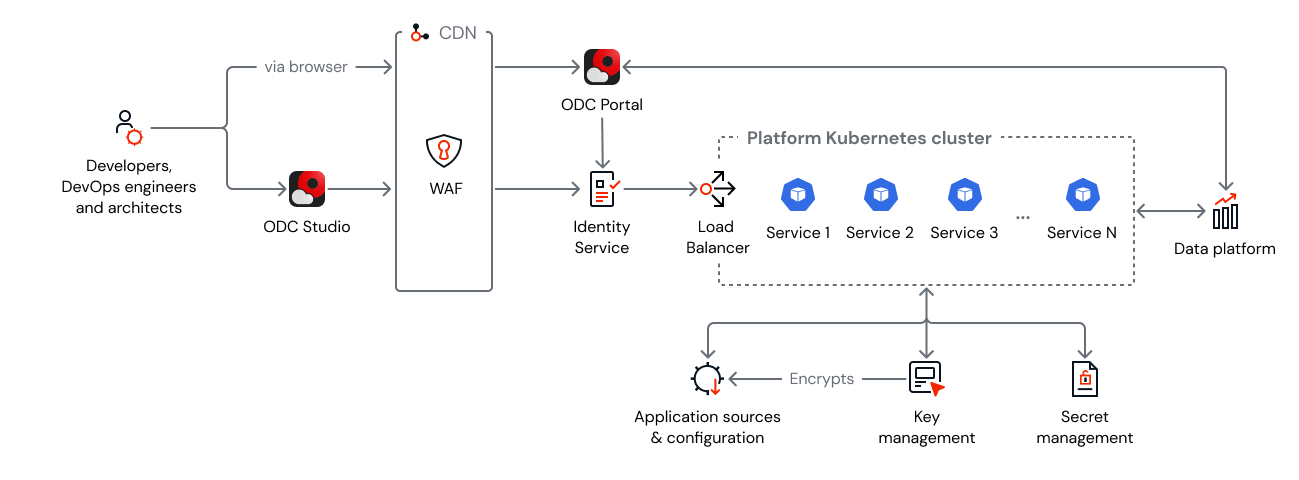
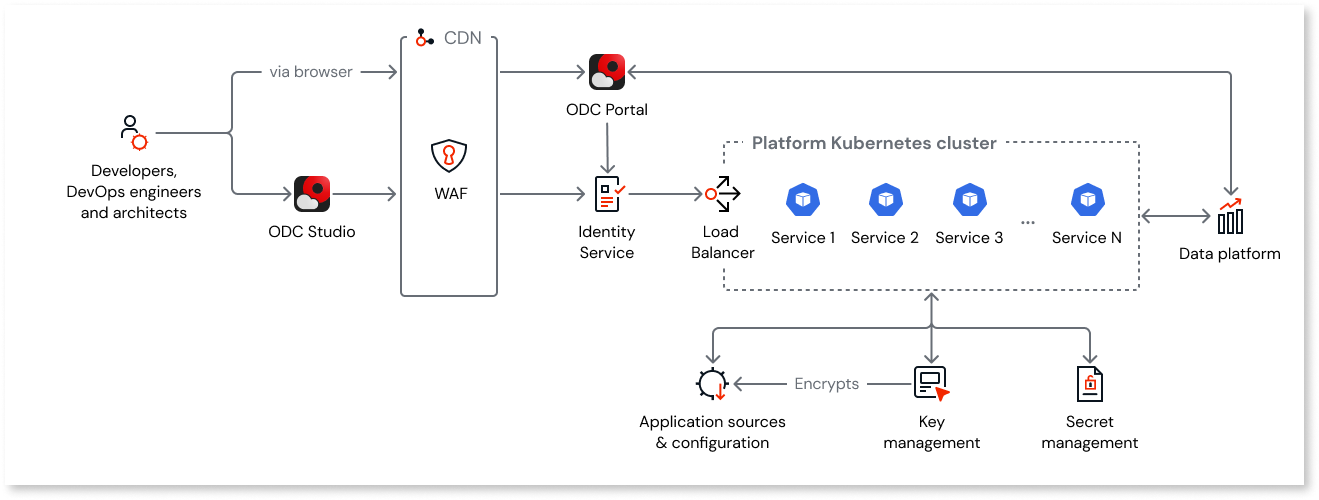
TK-17516 Add new data platform diagram (#1602)

diff --git a/src/eap/manage-platform-app-lifecycle/platform-architecture/intro.md b/src/eap/manage-platform-app-lifecycle/platform-architecture/intro.md
@@ -30,7 +30,7 @@ In addition to access to **ODC Studio** and [**ODC Portal**](../../onboarding/in
 * Access to multi-tenant development **Platform** services.
 * A Runtime setup of isolated and independent stages, for example: **Development**, **Test**, and **Production**.
 * A set of isolated, encrypted, and scalable databases and data stores for the Platform services data. Secret data such as API keys are stored in a secret manager.
-* An isolated, encrypted, and scalable relational database for each Runtime stage. 
+* An isolated, encrypted, and scalable relational database for each Runtime stage.
 * A built-in **Identity Service** to keep [user identities secure](identity.md).
 
 The following diagram shows the high-level architecture of the OutSystems Developer Cloud.
@@ -43,7 +43,7 @@ The following diagram shows the high-level architecture of the OutSystems Develo
 
 The development **Platform** comprises multiple services, each responsible for specific functions that facilitate the building and deployment of apps. All the Platform services benefit from a resilient microservices design with a REST API web service interface. Developers, DevOps engineers, and architects interact with these services using ODC Studio and ODC Portal.
 
-The Platform **Load Balancer** handles all requests to the services. 
+The Platform **Load Balancer** handles all requests to the services.
 
 An example of a service is the Build Service. When developers click the 1-Click Publish button in ODC Studio, the Build Service takes the OutSystems visual language model (OML project) and compiles it into a deployable app.
 
@@ -51,9 +51,9 @@ All the Platform services are multi-tenant and benefit from automatic recovery a
 
 The following diagram shows the high-level architecture of the development Platform.
 
-![Diagram showing the high-level architecture of the development Platform in OutSystems Developer Cloud.](images/high-level-architecture-platform-diag.png "Development Platform Architecture") 
+![Diagram showing the high-level architecture of the development Platform in OutSystems Developer Cloud.](images/high-level-architecture-platform-diag.png "Development Platform Architecture")
 
-#### Data platform 
+#### Data platform
 
 The **Data platform** collects, processes, and stores data from several sources. This information is then made available for analysis and visualization, allowing customers to monitor their apps’ performance and usage, and track platform operations. The Data platform is also responsible for processing Mentor App Generator’s data. 
 
@@ -63,14 +63,14 @@ The Data platform receives data from the following features:
 
 * [Monitor app analytics](https://www.outsystems.com/tk/redirect?g=e190d5fb-6b99-4d9b-a64f-a3b34be3588d): Receives and processes logs, traces, and metrics from all ODC assets.  
 * [App analytics stream](https://www.outsystems.com/tk/redirect?g=43e08fbf-f050-4946-aad2-289ab110be44): Provides the capability to stream logs, traces, and metrics in real-time to external analysis and monitoring tools.  
-* [Audit trail](https://www.outsystems.com/tk/redirect?g=3f3bc6b9-7335-4d8b-bb41-2eb396b86f3c): Receives chronological records of platform actions and configurations.   
+* [Audit trail](https://www.outsystems.com/tk/redirect?g=3f3bc6b9-7335-4d8b-bb41-2eb396b86f3c): Receives chronological records of platform actions and configurations.
 * [Code Quality](https://www.outsystems.com/tk/redirect?g=6be15662-74c5-4c35-9a7d-16a28816614c): Analyzes app code to provide insights into technical debt and identify areas for improvement.  
 * [Mentor App Generator](https://www.outsystems.com/tk/redirect?g=b17a8f2d-c767-49b4-9f50-381329442aba): Supports the Mentor App Generator by processing requirements documents, conversation history, and app metadata.  
 * [Monitor ODC resource capacity](https://www.outsystems.com/tk/redirect?g=25a0f102-51ac-4d76-8376-72b14f0f6218): Computes data related to resource consumption to help customers ensure optimal performance and capacity planning.
 
-<!---
-Missing diagram
--->
+The following diagram shows how different ODC features interact through the Data platform to exchange and process information.
+
+![Diagram showing how different ODC features interact through the Data platform to exchange and process information.](images/data-platform-diag.png "Data Platform Interaction")
 
 ##### Data residency
 
@@ -113,7 +113,7 @@ The compute capacity for each running Platform service is scalable. Many develop
 
 The following diagram shows how auto-scaling works inside the Platform cluster.
 
-![Diagram explaining how auto-scaling works inside the Platform cluster of OutSystems Developer Cloud.](images/architecture-platform-k8s-diag.png "Platform Cluster Auto-Scaling") 
+![Diagram explaining how auto-scaling works inside the Platform cluster of OutSystems Developer Cloud.](images/architecture-platform-k8s-diag.png "Platform Cluster Auto-Scaling")
 
 The **auto scale controller** monitors the CPU and RAM usage of each running service. It continuously checks the usage against the cluster compute capacity allocated and allocates additional capacity if the CPU and RAM usage exceeds a defined threshold.
 
@@ -137,7 +137,7 @@ The compute capacity for each app container running in each non-Development Runt
 
 The following diagram illustrates how auto-scaling works inside the Runtime cluster.
 
-![Illustration of auto-scaling mechanism inside the Runtime cluster for OutSystems Developer Cloud apps](images/architecture-runtime-scale-diag.png "Runtime Cluster Auto-Scaling")
+![Illustration of auto-scaling mechanism inside the Runtime cluster for OutSystems Developer Cloud apps.](images/architecture-runtime-scale-diag.png "Runtime Cluster Auto-Scaling")
 
 The **auto scale controller** monitors the CPU and RAM usage of each app container. It continuously checks the usage against the cluster compute capacity allocated and allocates additional capacity if the CPU and RAM usage exceeds a defined threshold.
 
@@ -170,7 +170,6 @@ The Amazon Aurora database architecture model decouples compute and storage, and
 
 #### High Availability - Data (HA)
 When enabled, a second (standby) database is deployed in a separate availability zone.  Whenever an availability zone fails or the primary database becomes unavailable, the standby database is automatically promoted to the primary, and traffic is automatically routed to the new primary database, ensuring minimal disruption.  Without HA, failover is not immediate and the primary database can take a few minutes to recover in a secondary availability zone.  As the data is automatically written to multiple AZ's, there is no loss of data in the event of a failure.
-
 
 #### Platform to Runtime
 
